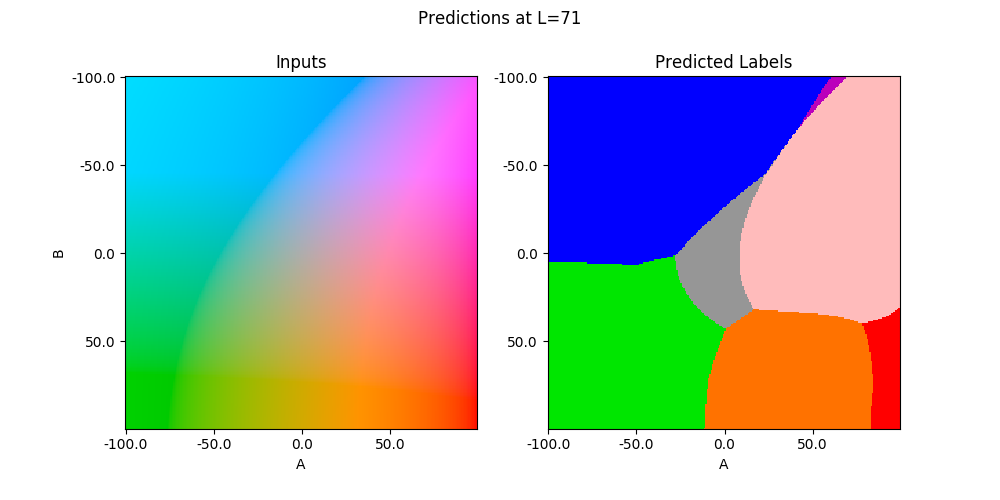
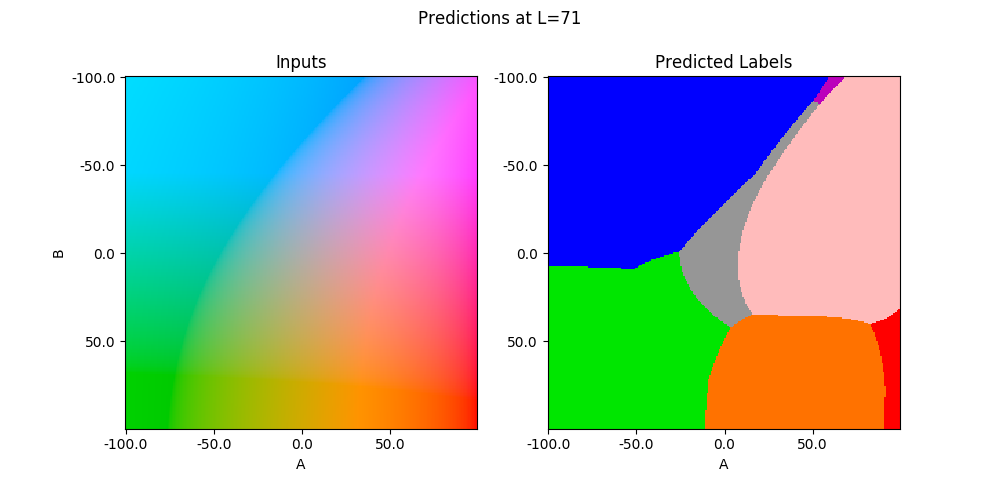
e8 solution

diff --git a/e8/weather_city.py b/e8/weather_city.py
@@ -1,0 +1,101 @@
+##################################
+# Case of the Unlabelled Weather #
+##################################
+
+import sys
+import pandas as pd
+
+from sklearn.model_selection import train_test_split
+# from sklearn.naive_bayes import GaussianNB
+# from sklearn.neighbors import KNeighborsClassifier
+from sklearn.preprocessing import StandardScaler
+from sklearn.pipeline import make_pipeline
+from sklearn.svm import SVC
+
+OUTPUT_TEMPLATE = (
+    # 'Bayesian classifier: {bayes_model:.3g}\n'
+    # 'kNN classifier:      {knn_model:.3g}\n'
+    'SVM classifier:      {svc_model:.3g}'
+)
+
+
+def get_data(file):
+    return pd.read_csv(file)
+
+
+def main():
+    # get file names
+    labelled = sys.argv[1]
+    unlabelled = sys.argv[2]
+    output = sys.argv[3]
+
+    # load data
+    labelled_data = get_data(labelled)
+    unlabelled_data = get_data(unlabelled)
+
+    # split labelled data
+    # https://stackoverflow.com/questions/29763620/how-to-select-all-columns-except-one-column-in-pandas
+    X_lab = labelled_data.loc[:, labelled_data.columns != 'city']
+    X_ulab = unlabelled_data.loc[:, labelled_data.columns != 'city']
+    y_lab = labelled_data['city'].values
+
+    # train test split on labelled data
+    X_train, X_valid, y_train, y_valid = train_test_split(X_lab, y_lab)
+
+    # # GaussianNB
+    # bayes_model = make_pipeline(
+    #     StandardScaler(),
+    #     GaussianNB()
+    # )
+
+    # # train model
+    # bayes_model.fit(X_train, y_train)
+
+    # # predict with bayes model
+    # y_bayes = bayes_model.predict(X_ulab)
+
+    # # KNeighborsClassifier
+    # knn_model = make_pipeline(
+    #     StandardScaler(),
+    #     KNeighborsClassifier(n_neighbors=9)
+    # )
+
+    # # train model
+    # knn_model.fit(X_train, y_train)
+
+    # # predict with knn model
+    # y_knn = knn_model.predict(X_ulab)
+
+    # SVC
+    svc_model = make_pipeline(
+        StandardScaler(),
+        SVC(kernel='linear', C=0.5)
+    )
+
+    # train model
+    svc_model.fit(X_train, y_train)
+
+    # predict with SVC model
+    y_svc = svc_model.predict(X_ulab)
+
+    print(OUTPUT_TEMPLATE.format(
+        # bayes_model=bayes_model.score(X_valid, y_valid),
+        # knn_model=knn_model.score(X_valid, y_valid),
+        svc_model=svc_model.score(X_valid, y_valid)
+    ))
+
+    # # prints out wrong predictions
+    # df = pd.DataFrame({
+    #     'truth': y_valid,
+    #     'prediction': svc_model.predict(X_valid)})
+    # print(df[df['truth'] != df['prediction']])
+
+    pd.Series(y_svc).to_csv(
+        output,
+        index=False,
+        header=False
+    )
+
+
+if __name__ == '__main__':
+    main()

diff --git a/e8/weather_clusters.py b/e8/weather_clusters.py
@@ -1,0 +1,69 @@
+#########################
+# Exploring the Weather #
+#########################
+
+import numpy as np
+import pandas as pd
+import matplotlib.pyplot as plt
+import sys
+
+from sklearn.pipeline import make_pipeline
+from sklearn.preprocessing import MinMaxScaler
+from sklearn.decomposition import PCA
+from sklearn.svm import SVC
+from sklearn.cluster import KMeans
+
+
+def get_pca(X):
+    """
+    Transform data to 2D points for plotting. Should return an array with shape (n, 2).
+    """
+    flatten_model = make_pipeline(
+        MinMaxScaler(),
+        PCA(2)
+    )
+    X2 = flatten_model.fit_transform(X)
+    assert X2.shape == (X.shape[0], 2)
+    return X2
+
+
+def get_clusters(X):
+    """
+    Find clusters of the weather data.
+    """
+    model = make_pipeline(
+        MinMaxScaler(),
+        KMeans(n_clusters=10)
+    )
+    model.fit(X)
+    return model.predict(X)
+
+
+def main():
+    data = pd.read_csv(sys.argv[1])
+
+    # split labelled data
+    # https://stackoverflow.com/questions/29763620/how-to-select-all-columns-except-one-column-in-pandas
+    X = data.loc[:, data.columns != 'city']
+    y = data['city'].values
+
+    X2 = get_pca(X)
+    clusters = get_clusters(X)
+
+    plt.scatter(
+        X2[:, 0], X2[:, 1], c=clusters,
+        cmap='Set1', edgecolor='k', s=20
+    )
+    plt.savefig('clusters.png')
+
+    df = pd.DataFrame({
+        'cluster': clusters,
+        'city': y,
+    })
+
+    counts = pd.crosstab(df['city'], df['cluster'])
+    print(counts)
+
+
+if __name__ == '__main__':
+    main()

diff --git a/e8/colour_predict.py b/e8/colour_predict.py
@@ -1,3 +1,7 @@
+#######################
+# Colour Words, Again #
+#######################
+
 import numpy as np
 import pandas as pd
 import matplotlib.pyplot as plt
@@ -102,10 +106,10 @@ def main():
     bayes_lab_model = make_pipeline(func_transformer, GaussianNB())
 
     # KNeighborsClassifier
-    knn_rgb_model = KNeighborsClassifier(n_neighbors=10)
+    knn_rgb_model = KNeighborsClassifier(n_neighbors=9)
     knn_lab_model = make_pipeline(
         func_transformer,
-        KNeighborsClassifier(n_neighbors=10))
+        KNeighborsClassifier(n_neighbors=9))
 
     # SVC
     svc_rgb_model = SVC(kernel='linear', C=1)
